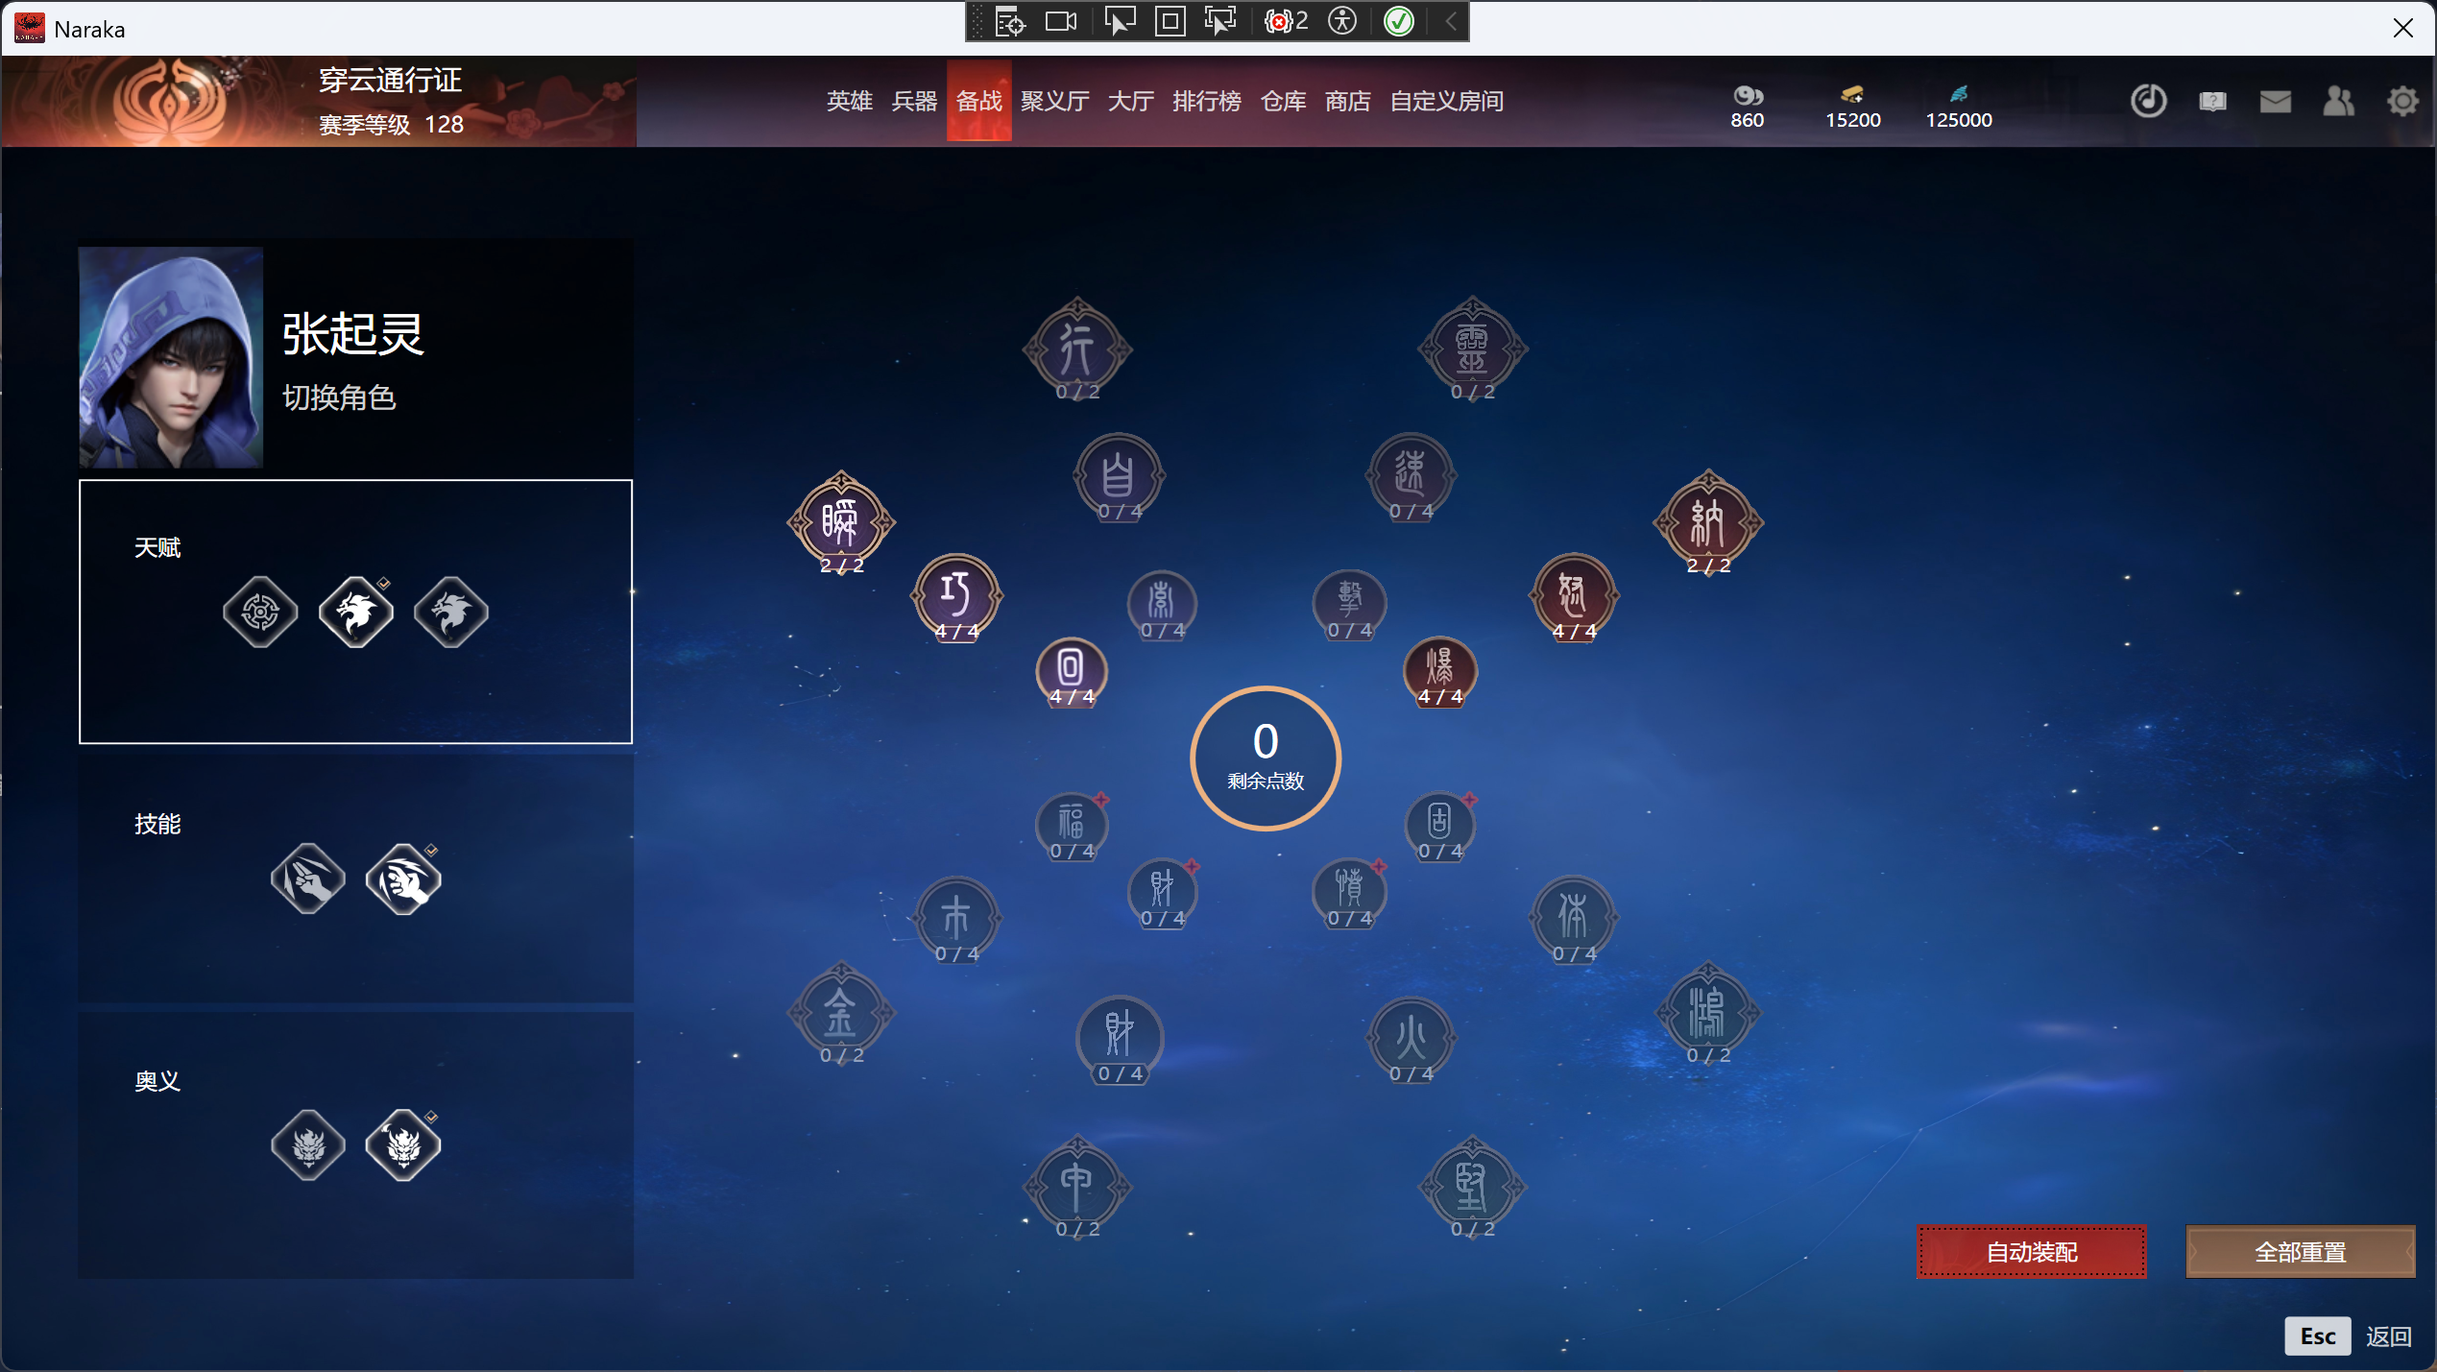
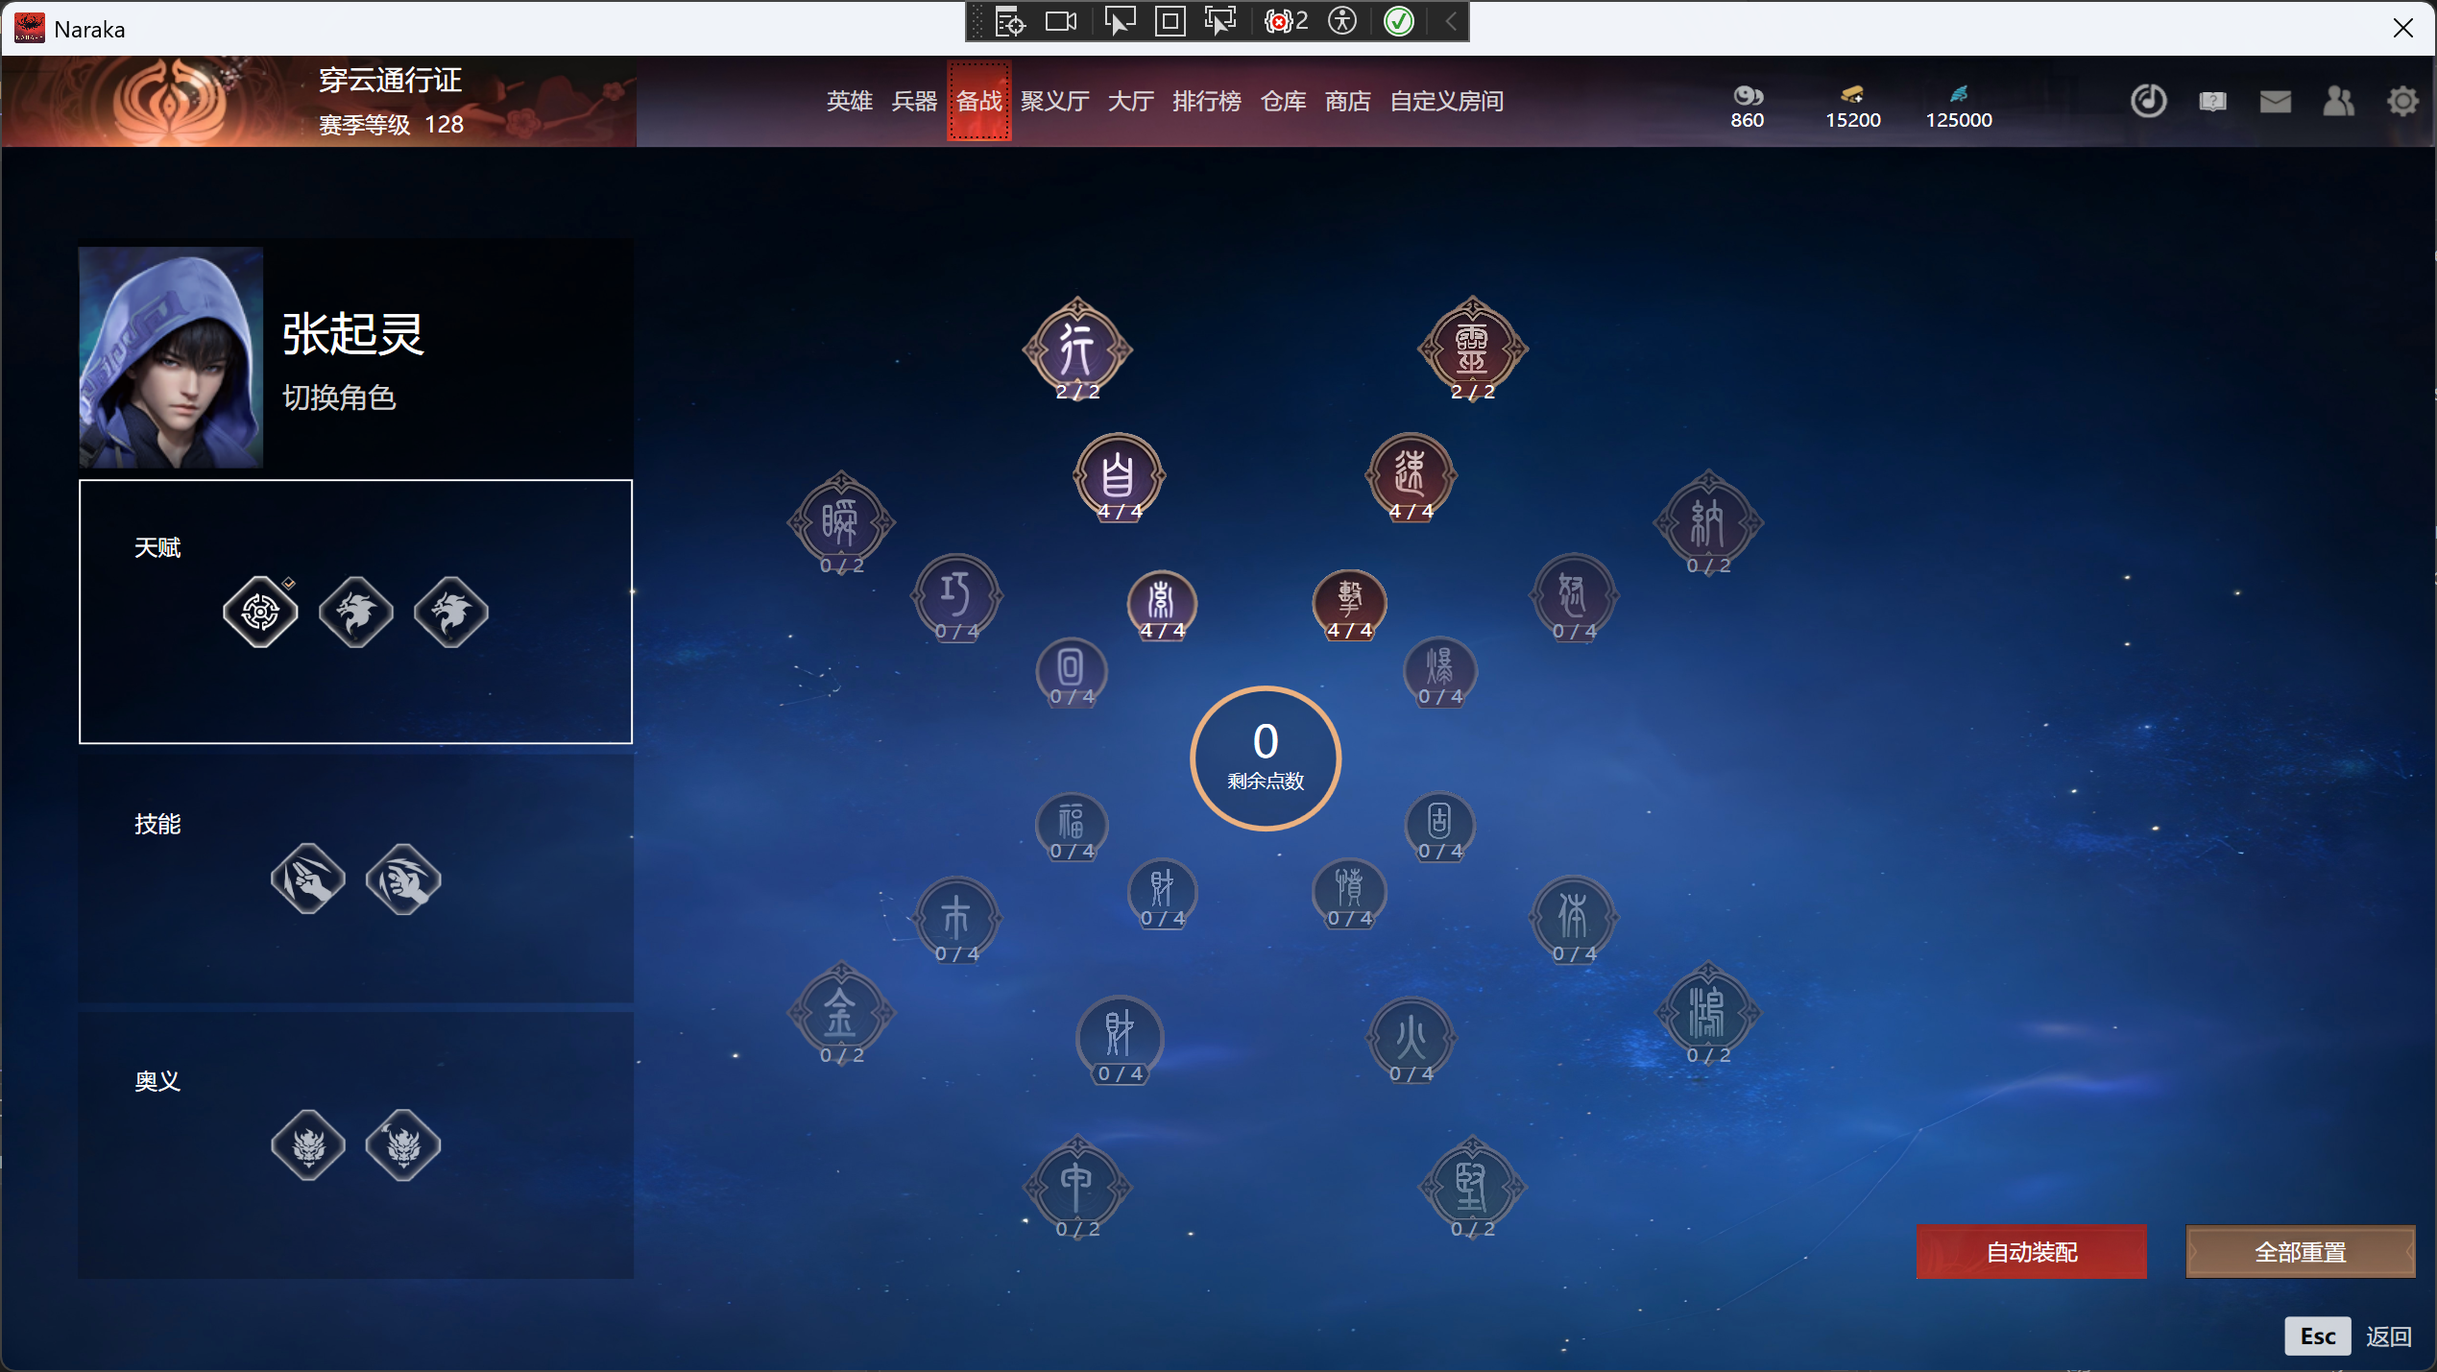
fix:修复【天赋】右上角红点显示错误bug

diff --git a/NarakaBladepoint.Modules/CommonFunction/UI/SkillPoint/Views/SkillPointPage.xaml b/NarakaBladepoint.Modules/CommonFunction/UI/SkillPoint/Views/SkillPointPage.xaml
@@ -30,6 +30,7 @@
         <converters:DependencySkillPointConverter x:Key="DependencySkillPointConverter" />
         <converters:GreaterThanZeroConverter x:Key="GreaterThanZeroConverter" />
         <converters:SelectedSkillVisibilityConverter x:Key="SelectedSkillVisibilityConverter" />
+        <converters:CanEditImageVisibilityConverter x:Key="CanEditImageVisibilityConverter" />
         <fwConverters:ImageSourceToFileNameConverter x:Key="ImageSourceToFileNameConverter" />
         <BooleanToVisibilityConverter x:Key="BooleanToVisibilityConverter" />
 
@@ -479,8 +480,14 @@
                         HorizontalAlignment="Right"
                         VerticalAlignment="Top"
                         Panel.ZIndex="1"
-                        Source="{StaticResource CanEditImage}"
-                        Visibility="{Binding SkillPointsLeftDown[0].IsLearnable, Converter={StaticResource BooleanToVisibilityConverter}}" />
+                        Source="{StaticResource CanEditImage}">
+                        <Image.Visibility>
+                            <MultiBinding Converter="{StaticResource CanEditImageVisibilityConverter}">
+                                <Binding Path="SkillPointsLeftDown[0].IsLearnable" />
+                                <Binding Path="RemainingPoints" />
+                            </MultiBinding>
+                        </Image.Visibility>
+                    </Image>
                     <TextBlock
                         Margin="{StaticResource FirstCircleTextBlockMargin}"
                         HorizontalAlignment="Center"
@@ -534,8 +541,14 @@
                         HorizontalAlignment="Right"
                         VerticalAlignment="Top"
                         Panel.ZIndex="1"
-                        Source="{StaticResource CanEditImage}"
-                        Visibility="{Binding SkillPointsLeftDown[1].IsLearnable, Converter={StaticResource BooleanToVisibilityConverter}}" />
+                        Source="{StaticResource CanEditImage}">
+                        <Image.Visibility>
+                            <MultiBinding Converter="{StaticResource CanEditImageVisibilityConverter}">
+                                <Binding Path="SkillPointsLeftDown[1].IsLearnable" />
+                                <Binding Path="RemainingPoints" />
+                            </MultiBinding>
+                        </Image.Visibility>
+                    </Image>
                     <TextBlock
                         Margin="{StaticResource FirstCircleTextBlockMargin}"
                         HorizontalAlignment="Center"
@@ -596,8 +609,14 @@
                         HorizontalAlignment="Right"
                         VerticalAlignment="Top"
                         Panel.ZIndex="1"
-                        Source="{StaticResource CanEditImage}"
-                        Visibility="{Binding SkillPointsLeftDown[2].IsLearnable, Converter={StaticResource BooleanToVisibilityConverter}}" />
+                        Source="{StaticResource CanEditImage}">
+                        <Image.Visibility>
+                            <MultiBinding Converter="{StaticResource CanEditImageVisibilityConverter}">
+                                <Binding Path="SkillPointsLeftDown[2].IsLearnable" />
+                                <Binding Path="RemainingPoints" />
+                            </MultiBinding>
+                        </Image.Visibility>
+                    </Image>
                     <TextBlock
                         Margin="{StaticResource SecondCircleTextBlockMargin}"
                         HorizontalAlignment="Center"
@@ -658,8 +677,14 @@
                         HorizontalAlignment="Right"
                         VerticalAlignment="Top"
                         Panel.ZIndex="1"
-                        Source="{StaticResource CanEditImage}"
-                        Visibility="{Binding SkillPointsLeftDown[3].IsLearnable, Converter={StaticResource BooleanToVisibilityConverter}}" />
+                        Source="{StaticResource CanEditImage}">
+                        <Image.Visibility>
+                            <MultiBinding Converter="{StaticResource CanEditImageVisibilityConverter}">
+                                <Binding Path="SkillPointsLeftDown[3].IsLearnable" />
+                                <Binding Path="RemainingPoints" />
+                            </MultiBinding>
+                        </Image.Visibility>
+                    </Image>
                     <TextBlock
                         Margin="{StaticResource SecondCircleTextBlockMargin}"
                         HorizontalAlignment="Center"
@@ -720,8 +745,14 @@
                         HorizontalAlignment="Right"
                         VerticalAlignment="Top"
                         Panel.ZIndex="1"
-                        Source="{StaticResource CanEditImage}"
-                        Visibility="{Binding SkillPointsLeftDown[4].IsLearnable, Converter={StaticResource BooleanToVisibilityConverter}}" />
+                        Source="{StaticResource CanEditImage}">
+                        <Image.Visibility>
+                            <MultiBinding Converter="{StaticResource CanEditImageVisibilityConverter}">
+                                <Binding Path="SkillPointsLeftDown[4].IsLearnable" />
+                                <Binding Path="RemainingPoints" />
+                            </MultiBinding>
+                        </Image.Visibility>
+                    </Image>
                     <TextBlock
                         Margin="{StaticResource ThirdCircleTextBlockMargin}"
                         HorizontalAlignment="Center"
@@ -782,8 +813,14 @@
                         HorizontalAlignment="Right"
                         VerticalAlignment="Top"
                         Panel.ZIndex="1"
-                        Source="{StaticResource CanEditImage}"
-                        Visibility="{Binding SkillPointsLeftDown[5].IsLearnable, Converter={StaticResource BooleanToVisibilityConverter}}" />
+                        Source="{StaticResource CanEditImage}">
+                        <Image.Visibility>
+                            <MultiBinding Converter="{StaticResource CanEditImageVisibilityConverter}">
+                                <Binding Path="SkillPointsLeftDown[5].IsLearnable" />
+                                <Binding Path="RemainingPoints" />
+                            </MultiBinding>
+                        </Image.Visibility>
+                    </Image>
                     <TextBlock
                         Margin="{StaticResource ThirdCircleTextBlockMargin}"
                         HorizontalAlignment="Center"
@@ -826,8 +863,14 @@
                         HorizontalAlignment="Right"
                         VerticalAlignment="Top"
                         Panel.ZIndex="1"
-                        Source="{StaticResource CanEditImage}"
-                        Visibility="{Binding SkillPointsRightDown[0].IsLearnable, Converter={StaticResource BooleanToVisibilityConverter}}" />
+                        Source="{StaticResource CanEditImage}">
+                        <Image.Visibility>
+                            <MultiBinding Converter="{StaticResource CanEditImageVisibilityConverter}">
+                                <Binding Path="SkillPointsRightDown[0].IsLearnable" />
+                                <Binding Path="RemainingPoints" />
+                            </MultiBinding>
+                        </Image.Visibility>
+                    </Image>
                     <TextBlock
                         Margin="{StaticResource FirstCircleTextBlockMargin}"
                         HorizontalAlignment="Center"
@@ -869,8 +912,14 @@
                         HorizontalAlignment="Right"
                         VerticalAlignment="Top"
                         Panel.ZIndex="1"
-                        Source="{StaticResource CanEditImage}"
-                        Visibility="{Binding SkillPointsRightDown[1].IsLearnable, Converter={StaticResource BooleanToVisibilityConverter}}" />
+                        Source="{StaticResource CanEditImage}">
+                        <Image.Visibility>
+                            <MultiBinding Converter="{StaticResource CanEditImageVisibilityConverter}">
+                                <Binding Path="SkillPointsRightDown[1].IsLearnable" />
+                                <Binding Path="RemainingPoints" />
+                            </MultiBinding>
+                        </Image.Visibility>
+                    </Image>
                     <TextBlock
                         Margin="{StaticResource FirstCircleTextBlockMargin}"
                         HorizontalAlignment="Center"
@@ -919,8 +968,14 @@
                         HorizontalAlignment="Right"
                         VerticalAlignment="Top"
                         Panel.ZIndex="1"
-                        Source="{StaticResource CanEditImage}"
-                        Visibility="{Binding SkillPointsRightDown[2].IsLearnable, Converter={StaticResource BooleanToVisibilityConverter}}" />
+                        Source="{StaticResource CanEditImage}">
+                        <Image.Visibility>
+                            <MultiBinding Converter="{StaticResource CanEditImageVisibilityConverter}">
+                                <Binding Path="SkillPointsRightDown[2].IsLearnable" />
+                                <Binding Path="RemainingPoints" />
+                            </MultiBinding>
+                        </Image.Visibility>
+                    </Image>
                     <TextBlock
                         Margin="{StaticResource SecondCircleTextBlockMargin}"
                         HorizontalAlignment="Center"
@@ -969,8 +1024,14 @@
                         HorizontalAlignment="Right"
                         VerticalAlignment="Top"
                         Panel.ZIndex="1"
-                        Source="{StaticResource CanEditImage}"
-                        Visibility="{Binding SkillPointsRightDown[3].IsLearnable, Converter={StaticResource BooleanToVisibilityConverter}}" />
+                        Source="{StaticResource CanEditImage}">
+                        <Image.Visibility>
+                            <MultiBinding Converter="{StaticResource CanEditImageVisibilityConverter}">
+                                <Binding Path="SkillPointsRightDown[3].IsLearnable" />
+                                <Binding Path="RemainingPoints" />
+                            </MultiBinding>
+                        </Image.Visibility>
+                    </Image>
                     <TextBlock
                         Margin="{StaticResource SecondCircleTextBlockMargin}"
                         HorizontalAlignment="Center"
@@ -1019,8 +1080,14 @@
                         HorizontalAlignment="Right"
                         VerticalAlignment="Top"
                         Panel.ZIndex="1"
-                        Source="{StaticResource CanEditImage}"
-                        Visibility="{Binding SkillPointsRightDown[4].IsLearnable, Converter={StaticResource BooleanToVisibilityConverter}}" />
+                        Source="{StaticResource CanEditImage}">
+                        <Image.Visibility>
+                            <MultiBinding Converter="{StaticResource CanEditImageVisibilityConverter}">
+                                <Binding Path="SkillPointsRightDown[4].IsLearnable" />
+                                <Binding Path="RemainingPoints" />
+                            </MultiBinding>
+                        </Image.Visibility>
+                    </Image>
                     <TextBlock
                         Margin="{StaticResource ThirdCircleTextBlockMargin}"
                         HorizontalAlignment="Center"
@@ -1069,8 +1136,14 @@
                         HorizontalAlignment="Right"
                         VerticalAlignment="Top"
                         Panel.ZIndex="1"
-                        Source="{StaticResource CanEditImage}"
-                        Visibility="{Binding SkillPointsRightDown[5].IsLearnable, Converter={StaticResource BooleanToVisibilityConverter}}" />
+                        Source="{StaticResource CanEditImage}">
+                        <Image.Visibility>
+                            <MultiBinding Converter="{StaticResource CanEditImageVisibilityConverter}">
+                                <Binding Path="SkillPointsRightDown[5].IsLearnable" />
+                                <Binding Path="RemainingPoints" />
+                            </MultiBinding>
+                        </Image.Visibility>
+                    </Image>
                     <TextBlock
                         Margin="{StaticResource ThirdCircleTextBlockMargin}"
                         HorizontalAlignment="Center"

diff --git a/NarakaBladepoint.Modules/CommonFunction/UI/SkillPoint/Converters/CanEditImageVisibilityConverter.cs b/NarakaBladepoint.Modules/CommonFunction/UI/SkillPoint/Converters/CanEditImageVisibilityConverter.cs
@@ -1,0 +1,34 @@
+using System;
+using System.Globalization;
+using System.Windows;
+using System.Windows.Data;
+
+namespace NarakaBladepoint.Modules.CommonFunction.UI.SkillPoint.Converters
+{
+    /// <summary>
+    /// 用于判断技能点编辑图标的可见性
+    /// 只有当技能点可学习且仍有剩余技能点时才显示
+    /// </summary>
+    public class CanEditImageVisibilityConverter : IMultiValueConverter
+    {
+        public object Convert(object[] values, Type targetType, object parameter, CultureInfo culture)
+        {
+            if (values.Length < 2)
+                return Visibility.Collapsed;
+
+            // values[0] 是 IsLearnable (bool)
+            // values[1] 是 RemainingPoints (int)
+            if (values[0] is bool isLearnable && values[1] is int remainingPoints)
+            {
+                return (isLearnable && remainingPoints > 0) ? Visibility.Visible : Visibility.Collapsed;
+            }
+
+            return Visibility.Collapsed;
+        }
+
+        public object[] ConvertBack(object value, Type[] targetTypes, object parameter, CultureInfo culture)
+        {
+            throw new NotImplementedException();
+        }
+    }
+}
